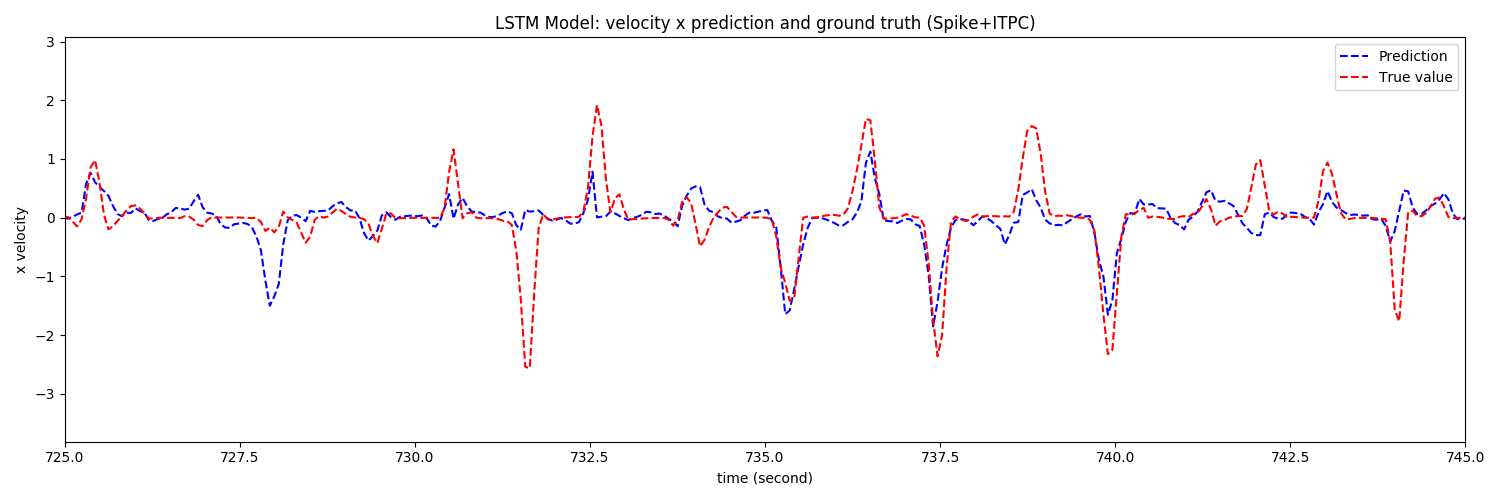
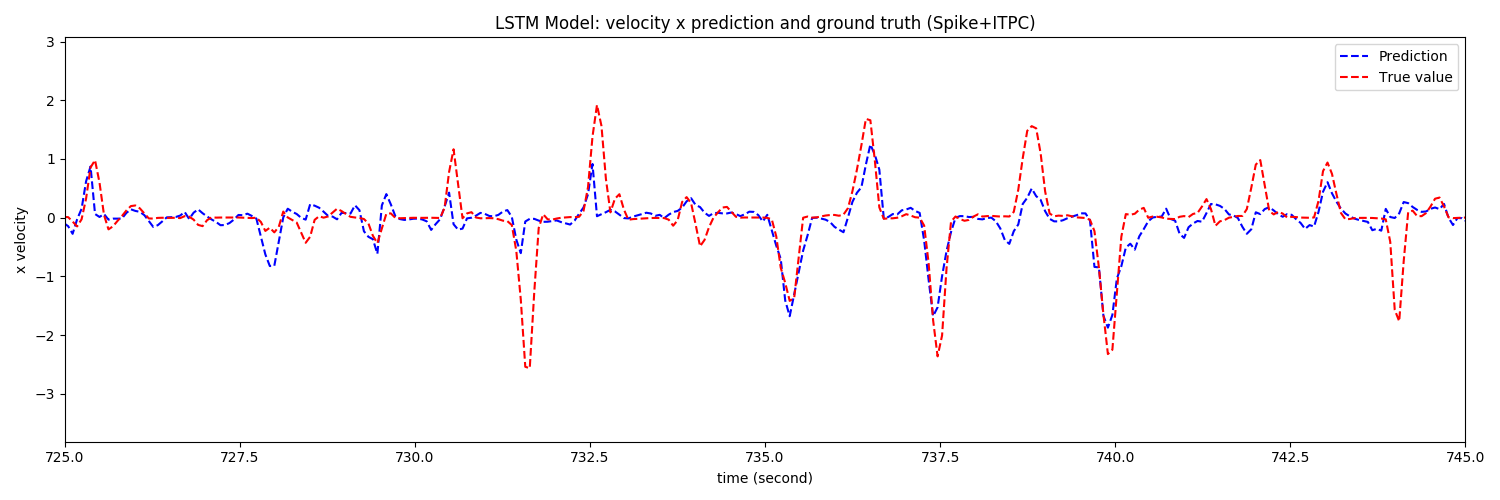
8-12Hz

diff --git a/Python_code/Signal_Processing/Inter-Channel_Clustering_Preprocess/Raw_Data_to_nwb_ITPC_csv_96_Channels_8-12Hz.py b/Python_code/Signal_Processing/Inter-Channel_Clustering_Preprocess/Raw_Data_to_nwb_ITPC_csv_96_Channels_8-12Hz.py
@@ -1,0 +1,182 @@
+
+# -*- coding: utf-8 -*-
+import h5py
+from scipy import signal
+from scipy.signal import butter, lfilter
+import matplotlib.pyplot as plt
+import numpy as np
+from mpl_toolkits.mplot3d import Axes3D
+import matplotlib as mpl
+from scipy.signal import hilbert
+import seaborn as sns
+import os
+import math
+import pandas as pd
+import time
+tStart=time.time()
+# Load my module
+import sys
+sys.path.append("..") # Adds higher directory to python modules path
+import Inter_Channel_Module.parameters as my_parameters
+import Inter_Channel_Module.buttersworth_filter as buttersworth_filter
+
+my_parameters=my_parameters.my_parameters()
+buttersworth_filter=buttersworth_filter.butterworth_filter()
+
+
+channel_number=my_parameters.channel_number
+# start_second=my_parameters.start_second
+start_second=-1 # initial
+plot_time_duration=my_parameters.plot_time_duration
+end_second=-2
+last_mat_timestep=-1
+
+band_start=8
+band_cutoff=12
+session_name=my_parameters.session_name
+
+if band_start ==0.5:
+    bandwidth_token='0_5'+'-'+ str(band_cutoff) + 'Hz'
+
+else:
+    bandwidth_token=str(band_start) +'-'+ str(band_cutoff) + 'Hz'
+
+
+# 'pos' or 'vel'
+kinematic_variable_type=my_parameters.kinematic_variable_type
+
+# nwb file
+nwb_filename = '../../../Dataset/The_nwb_Raw_Dataset/'+session_name+'.nwb'
+nwb_file = h5py.File(nwb_filename, 'r')
+data = nwb_file['/acquisition/timeseries/broadband/data']
+conversion = data.attrs['conversion']
+electrode_map = nwb_file['/general/extracellular_ephys/electrode_map']
+nwb_timestamp = nwb_file['/acquisition/timeseries/broadband/timestamps']
+
+# mat file
+mat_file_name_1='../../../Dataset/Sorted_Spike_Dataset/'+session_name+'.mat'
+mat_file=h5py.File(mat_file_name_1, 'r')
+mat_timestamp=mat_file.get('t')
+mat_timestamp=np.array(mat_timestamp)
+print('YEEE shape of mat_timestamp', mat_timestamp.shape, '\n')
+
+start_second=math.floor(mat_timestamp[0][0])
+last_mat_timestep=mat_timestamp[0][-1]
+end_second=start_second+plot_time_duration
+
+is_first_loop=True # Optimize write file system
+is_last_loop=False
+
+while(is_last_loop==False):
+
+    if end_second>last_mat_timestep:
+        is_last_loop=True
+
+    mat_time_interval=np.where(np.logical_and(mat_timestamp[0,:]>start_second, mat_timestamp[0,:]<end_second ) )
+    # print('mat_timestamp np.where result = ', end='')
+    # print(mat_time_interval, '\n')
+    # print('type of mat_time_interval=', type(mat_time_interval),'\n')
+    # print('mat_time_interval start time index = ', mat_time_interval[0][0],'\n')
+    # print('mat_time_interval end time index = ', mat_time_interval[0][-1],'\n')
+
+    # new timestamp in mat file
+    new_mat_time_stamp=mat_timestamp[0,mat_time_interval[0][0]:mat_time_interval[0][-1]]
+    print('new_mat_time_stamp = ', new_mat_time_stamp,'\n')
+
+
+    # Extract time interval from nwb file
+    nwb_time_interval=np.where(np.logical_and(nwb_timestamp[:,]>start_second, nwb_timestamp[:,]<end_second ) )
+    # print('nwb_timestamp np.where result = ', end='')    
+    # print('type of nwb_time_interval = ', type(nwb_time_interval),'\n')
+    # print('nwb_time_interval start time index = ', nwb_time_interval[0][0],'\n')
+    # print('nwb_time_interval end time index = ', nwb_time_interval[0][-1],'\n')
+    new_nwb_time_stamp= nwb_timestamp[nwb_time_interval[0][0]:nwb_time_interval[0][-1],]
+    print('new_nwb_time_stamp = ', new_nwb_time_stamp, '\n')
+    sampling_rate=1/( nwb_timestamp[1,]- nwb_timestamp[0,])
+
+    channel_1=data[ nwb_time_interval[0][0]:nwb_time_interval[0][-1], 0+channel_number]
+    channel_2=data[ nwb_time_interval[0][0]:nwb_time_interval[0][-1], 0+69]
+    channel_3=data[ nwb_time_interval[0][0]:nwb_time_interval[0][-1], 0+50]
+
+
+    instance_phase_all_channels=[]
+    # good_channel_list_start_from_one=[39,41,76,42,26,29,33,93,21,2,54]
+    for channel_number_yee in range(96):
+    # for channel_number_yee in good_channel_list_start_from_one:
+        # channel_number_yee=channel_number_yee-1
+        channel_1=data[ nwb_time_interval[0][0]:nwb_time_interval[0][-1], 0+channel_number_yee]
+        filtered_data_1=buttersworth_filter.butter_highpass_filter(channel_1, band_start, sampling_rate, order=2)
+        filtered_data_1=buttersworth_filter.butter_lowpass_filter(filtered_data_1, band_cutoff, sampling_rate, order=2)
+        analytic_signal_1 = hilbert(filtered_data_1)
+        instantaneous_phase = np.angle(analytic_signal_1)
+        instance_phase_all_channels.append(instantaneous_phase)
+
+    instance_phase_all_channels=np.array(instance_phase_all_channels)
+
+    ITPC_angle=[]
+    ITPC_abs=[]
+    for itpc_loop in range( instance_phase_all_channels.shape[1] ) :
+        itpc_angle=0
+        itpc_abs=0
+        # itpc = abs(mean(exp( i* 1-D_signal_array )))
+        # print('1: ', instance_phase_all_channels[:][itpc_loop:itpc_loop+1],'\n')
+        # print('1j * instance_phase_all_channels[:,itpc_loop]=', 1j * instance_phase_all_channels[:,itpc_loop],'\n')
+        itpc_angle=np.angle( np.mean (np.exp( 1j * instance_phase_all_channels[:,itpc_loop]  )))
+        itpc_abs=np.abs( np.mean (np.exp( 1j * instance_phase_all_channels[:,itpc_loop]  )))
+
+        ITPC_angle.append(itpc_angle)
+        ITPC_abs.append(itpc_abs)
+
+    ITPC_angle=np.array(ITPC_angle).transpose()
+    ITPC_abs=np.array(ITPC_abs).transpose()
+
+    print('---'*30)
+    print('ITPC_angle shape= ', ITPC_angle.shape, '\n')
+    print('ITPC_abs shape= ', ITPC_abs.shape, '\n')
+
+    print('len of new_nwb_time_stamp= ', len(new_nwb_time_stamp), '\n')
+    # Write result to csv
+    CWD = os.getcwd()
+
+    if 'Inter-Channel_Clustering_Output_Table' not in CWD:
+        CWD=os.path.join(CWD, 'Inter-Channel_Clustering_Output_Table')
+        if not os.path.exists(CWD):
+                os.mkdir(CWD)
+                
+
+
+    if bandwidth_token not in CWD:
+        CWD=os.path.join(CWD, bandwidth_token)
+        if not os.path.exists(CWD):
+                os.mkdir(CWD)
+
+    csv_path=os.path.join(CWD, '24kHz')
+    if not os.path.exists(csv_path):
+        os.mkdir(str(csv_path))
+
+    print('csv_path= ', csv_path, '\n')
+
+    if is_first_loop==True:
+        is_first_loop=False
+        try:
+            os.remove(os.path.join(csv_path,'24kHz_angle' + '.csv'))
+            os.remove(os.path.join(csv_path,'24kHz_abs' +'.csv'))
+            os.remove(os.path.join(csv_path,'24kHz_nwb_time_stamp.csv'))
+            print('\nOld file deleted\n')
+        except:
+            print('\nNo old files\n')
+    # https://stackoverflow.com/questions/17530542/how-to-add-pandas-data-to-an-existing-csv-file
+    df = pd.DataFrame(ITPC_angle)
+    df.to_csv(os.path.join(csv_path,'24kHz_angle'+ '.csv'), mode='a', index=False, header=False)
+
+    df = pd.DataFrame(ITPC_abs)
+    df.to_csv(os.path.join(csv_path,'24kHz_abs'+ '.csv'), mode='a', index=False, header=False)
+
+    df = pd.DataFrame(new_nwb_time_stamp)
+    df.to_csv(os.path.join(csv_path,'24kHz_nwb_time_stamp.csv'), mode='a', index=False, header=False)
+
+    start_second+=plot_time_duration
+    end_second+=plot_time_duration
+
+tEnd=time.time()
+print('Overall processing time: '+ str ( round( (tEnd-tStart)/60 , 3) )+' minutes' )

diff --git a/Python_code/Signal_Processing/Inter-Channel_Clustering_Preprocess/nwb_ITPC_csv_to_mat_ITPC_csv_96_Channels_8-12Hz.py b/Python_code/Signal_Processing/Inter-Channel_Clustering_Preprocess/nwb_ITPC_csv_to_mat_ITPC_csv_96_Channels_8-12Hz.py
@@ -1,0 +1,174 @@
+
+# -*- coding: utf-8 -*-
+import h5py
+from scipy import signal
+from scipy.signal import butter, lfilter
+import matplotlib.pyplot as plt
+import numpy as np
+from mpl_toolkits.mplot3d import Axes3D
+import matplotlib as mpl
+from scipy.signal import hilbert
+import seaborn as sns
+import os
+import gc
+import math
+import pandas as pd
+import itertools
+from itertools import islice
+import time
+tStart=time.time()
+# Load my module
+import sys
+sys.path.append("..") # Adds higher directory to python modules path
+import Inter_Channel_Module.parameters as my_parameters
+import Inter_Channel_Module.buttersworth_filter as buttersworth_filter
+my_parameters=my_parameters.my_parameters()
+
+session_name=my_parameters.session_name
+# nwb file
+nwb_filename = '../../../Dataset/The_nwb_Raw_Dataset/'+session_name+'.nwb'
+nwb_file = h5py.File(nwb_filename, 'r')
+data = nwb_file['/acquisition/timeseries/broadband/data']
+conversion = data.attrs['conversion']
+electrode_map = nwb_file['/general/extracellular_ephys/electrode_map']
+nwb_timestamp = nwb_file['/acquisition/timeseries/broadband/timestamps']
+
+# mat file
+
+mat_file_name_1='../../../Dataset/Sorted_Spike_Dataset/'+session_name+'.mat'
+mat_file=h5py.File(mat_file_name_1, 'r')
+mat_timestamp=mat_file.get('t')
+mat_timestamp=np.array(mat_timestamp)
+print('nwb_loop_indexE shape of mat_timestamp', mat_timestamp.shape, '\n')
+
+delta= nwb_timestamp[1,]- nwb_timestamp[0,]
+
+bandwidth_token='8-12Hz'
+
+
+High_angle='Inter-Channel_Clustering_Output_Table/'+bandwidth_token+'/24kHz/24kHz_angle.csv'
+High_abs='Inter-Channel_Clustering_Output_Table/'+bandwidth_token+'/24kHz/24kHz_abs.csv'
+new_nwb_time_stamp='Inter-Channel_Clustering_Output_Table/0_5-40Hz/24kHz/24kHz_nwb_time_stamp.csv'
+chunksize = 1e5
+
+
+
+is_first_loop=True # Optimize write file system
+
+# https://stackoverflow.com/questions/9394803/python-combine-two-for-loops
+# https://stackoverflow.com/questions/1663807/how-to-iterate-through-two-lists-in-parallel
+# https://stackoverflow.com/questions/28138392/skip-iterations-in-enumerated-list-object-python
+# https://kite.com/python/answers/how-to-skip-the-first-element-of-a-for-loop-in-python
+# https://stackoverflow.com/questions/10079216/skip-first-entry-in-for-loop-in-python
+
+iterator=enumerate(zip( pd.read_csv(new_nwb_time_stamp, chunksize=chunksize), pd.read_csv(High_angle, chunksize=chunksize), pd.read_csv(High_abs, chunksize=chunksize) ))
+
+skip=0
+for nwb_loop_index, (chunk_new_nwb_time_stamp, chunk_High_angle, chunk_High_abs) in iterator:
+
+    chunk_new_nwb_time_stamp=np.array(chunk_new_nwb_time_stamp)
+    chunk_High_angle=np.array(chunk_High_angle)
+    chunk_High_abs=np.array(chunk_High_abs)
+    print('nwb_loop_index = ', nwb_loop_index, '\n')
+
+    for mat_loop_index in range(skip, mat_timestamp.shape[1]):
+
+        target_start=time.time()
+
+        nwb_timestamp_to_mat_timestamp=[]
+        ITPC_abs_250Hz=[]
+        ITPC_angle_250Hz=[]
+        target=mat_timestamp[0][mat_loop_index]
+        print('-'*50, '\ntarget= ', target, '\n')
+        
+        # for _ in range(skip):
+            # next(iterator, None)
+        # for nwb_loop_index, (chunk_new_nwb_time_stamp, chunk_High_angle, chunk_High_abs) in iterator:  
+
+        print('enumerate number= ', nwb_loop_index, '\n')
+        print('first= ', chunk_new_nwb_time_stamp[0], '\n')
+        print('last= ', chunk_new_nwb_time_stamp[-1], '\n')
+
+        if chunk_new_nwb_time_stamp[-1]<target:
+            skip=mat_loop_index
+            break
+
+        # if chunk_new_nwb_time_stamp[0]>target:
+        #     break
+
+        # print('shape of chunk_new_nwb_time_stamp: ', chunk_new_nwb_time_stamp.shape, '\n')
+        chunk_index=np.where( np.logical_and(target>chunk_new_nwb_time_stamp[:,0], target-delta<chunk_new_nwb_time_stamp[:,0] ))
+        # print(type(chunk_index[0]))
+        if chunk_index[0].size==0:
+            # breakpoint() # TODO explain this
+            chunk_index=np.where( target<chunk_new_nwb_time_stamp[:,0] )
+
+        if chunk_index[0].size>0:
+            
+
+            # if chunk_index[0].size>1:
+            #     print(chunk_index[0])
+            #     breakpoint()
+
+            # print('chunk_index= ', chunk_index, ' \nchunk_new_nwb_time_stamp value=', chunk_new_nwb_time_stamp[chunk_index], '\nchunk_High_angle value=',chunk_High_angle[chunk_index], '\nchunk_High_abs value=',chunk_High_abs[chunk_index] ,'\n')
+            
+            nwb_timestamp_to_mat_timestamp.append(target)
+            ITPC_abs_250Hz.append(chunk_High_abs[chunk_index[0][0]])
+            ITPC_angle_250Hz.append( chunk_High_angle[chunk_index[0][0]] )
+
+
+
+            nwb_timestamp_to_mat_timestamp=np.array(nwb_timestamp_to_mat_timestamp).transpose()
+            ITPC_abs_250Hz=np.array(ITPC_abs_250Hz).transpose()
+            ITPC_angle_250Hz=np.array(ITPC_angle_250Hz).transpose()
+
+            # Write result to csv
+            CWD = os.getcwd()
+
+            if 'Inter-Channel_Clustering_Output_Table' not in CWD:
+                CWD=os.path.join(CWD, 'Inter-Channel_Clustering_Output_Table')
+                if not os.path.exists(CWD):
+                        os.mkdir(CWD)   
+
+            if bandwidth_token not in CWD:
+                CWD=os.path.join(CWD, bandwidth_token )
+                if not os.path.exists(CWD):
+                        os.mkdir(CWD)
+
+            csv_path=os.path.join(CWD, '250Hz')
+            if not os.path.exists(csv_path):
+                os.mkdir(str(csv_path))
+
+            # print('csv_path= ', csv_path, '\n')
+
+            if is_first_loop==True:
+                is_first_loop=False
+                try:
+                    os.remove(os.path.join(csv_path,'nwb_timestamp_to_mat_timestamp.csv'))
+                    os.remove(os.path.join(csv_path,'ITPC_abs_250Hz.csv'))
+                    os.remove(os.path.join(csv_path,'ITPC_angle_250Hz.csv'))
+                    print('\nOld file deleted\n')
+                except:
+                    print('\nNo old files\n')
+
+            df=pd.DataFrame(nwb_timestamp_to_mat_timestamp)
+            df.to_csv(os.path.join(csv_path,'nwb_timestamp_to_mat_timestamp.csv'), mode='a', index=False, header=False)
+
+            df=pd.DataFrame(ITPC_abs_250Hz)
+            df.to_csv(os.path.join(csv_path,'ITPC_abs_250Hz.csv'), mode='a', index=False, header=False)
+
+            df=pd.DataFrame(ITPC_angle_250Hz)
+            df.to_csv(os.path.join(csv_path,'ITPC_angle_250Hz.csv'), mode='a', index=False, header=False)
+
+            print('end one target search\n')
+            target_end=time.time()
+            print('target processing time: '+ str ( round( (target_end-target_start) , 7) )+' seconds' )
+        
+    del chunk_new_nwb_time_stamp
+    del chunk_High_angle
+    del chunk_High_abs
+    gc.collect()
+
+
+tEnd=time.time()
+print('Overall processing time: '+ str ( round( (tEnd-tStart)/60 , 3) )+' minutes' )

diff --git a/Python_code/Pytorch/ITPC/ITPC_LSTM.py b/Python_code/Pytorch/ITPC/ITPC_LSTM.py
@@ -350,10 +350,10 @@ for k in range(new_training_x.size(0)):
         # Phase-of-Firing
 
         # absolute
-        # new_training_x[k,i]=new_training_x[k,i]*abs(new_training_x[k,-2])*new_training_x[k,-1]
+        new_training_x[k,i]=new_training_x[k,i]*abs(new_training_x[k,-2])*new_training_x[k,-1]
         # new_training_x[k,i]=new_training_x[k,i]*abs(new_training_x[k,-2])
 
-        new_training_x[k,i]=new_training_x[k,i]*new_training_x[k,-2]*new_training_x[k,-1]        
+        # new_training_x[k,i]=new_training_x[k,i]*new_training_x[k,-2]*new_training_x[k,-1]        
 
         # Concatenate
         # new_training_x[k,-2]=abs(new_training_x[k,-2])*new_training_x[k,-1]
@@ -367,10 +367,10 @@ for k in range(new_testing_x.size(0)):
         # Phase-of-Firing
 
         # absolute
-        # new_testing_x[k,i]=new_testing_x[k,i]*abs(new_testing_x[k,-2])*new_testing_x[k,-1]
+        new_testing_x[k,i]=new_testing_x[k,i]*abs(new_testing_x[k,-2])*new_testing_x[k,-1]
         # new_testing_x[k,i]=new_testing_x[k,i]*abs(new_testing_x[k,-2])
 
-        new_testing_x[k,i]=new_testing_x[k,i]*new_testing_x[k,-2]*new_testing_x[k,-1]        
+        # new_testing_x[k,i]=new_testing_x[k,i]*new_testing_x[k,-2]*new_testing_x[k,-1]        
 
         # Concatenate
         # new_testing_x[k,-2]=abs(new_testing_x[k,-2])*new_testing_x[k,-1]
